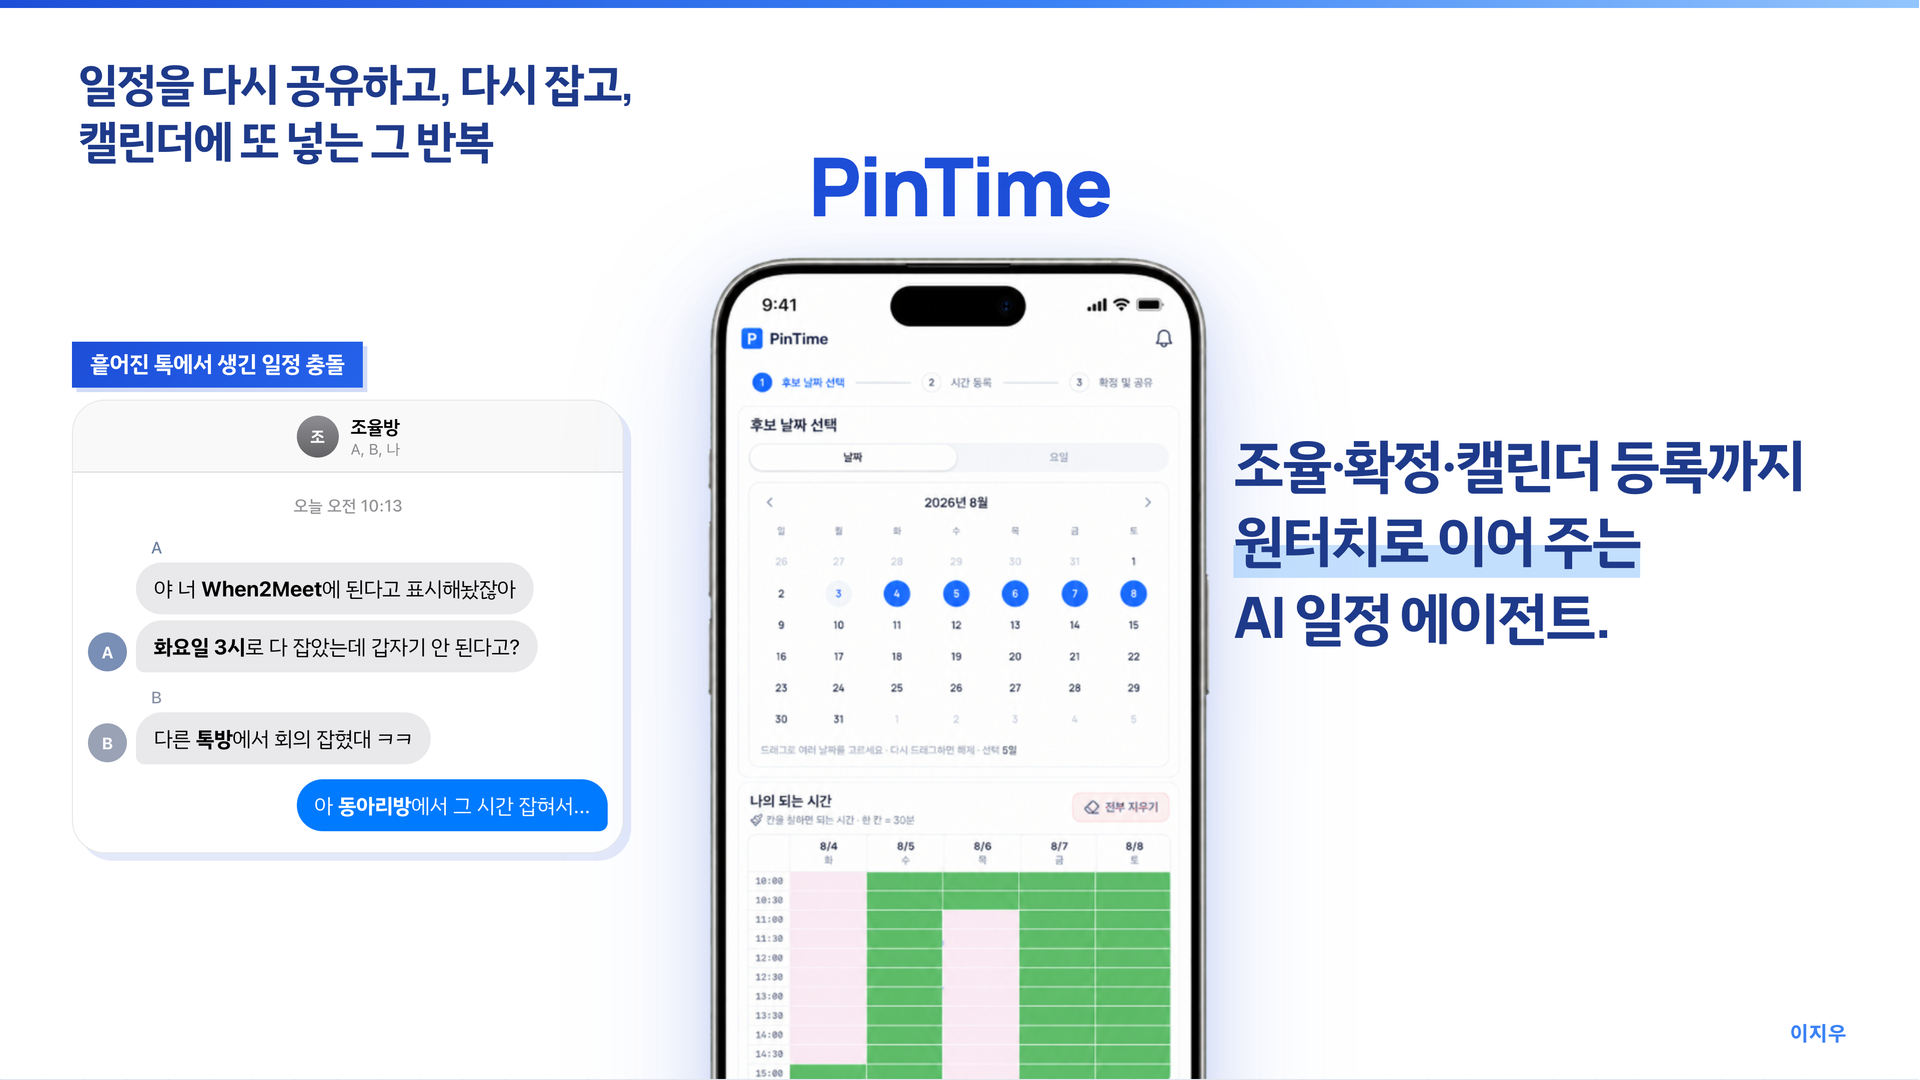
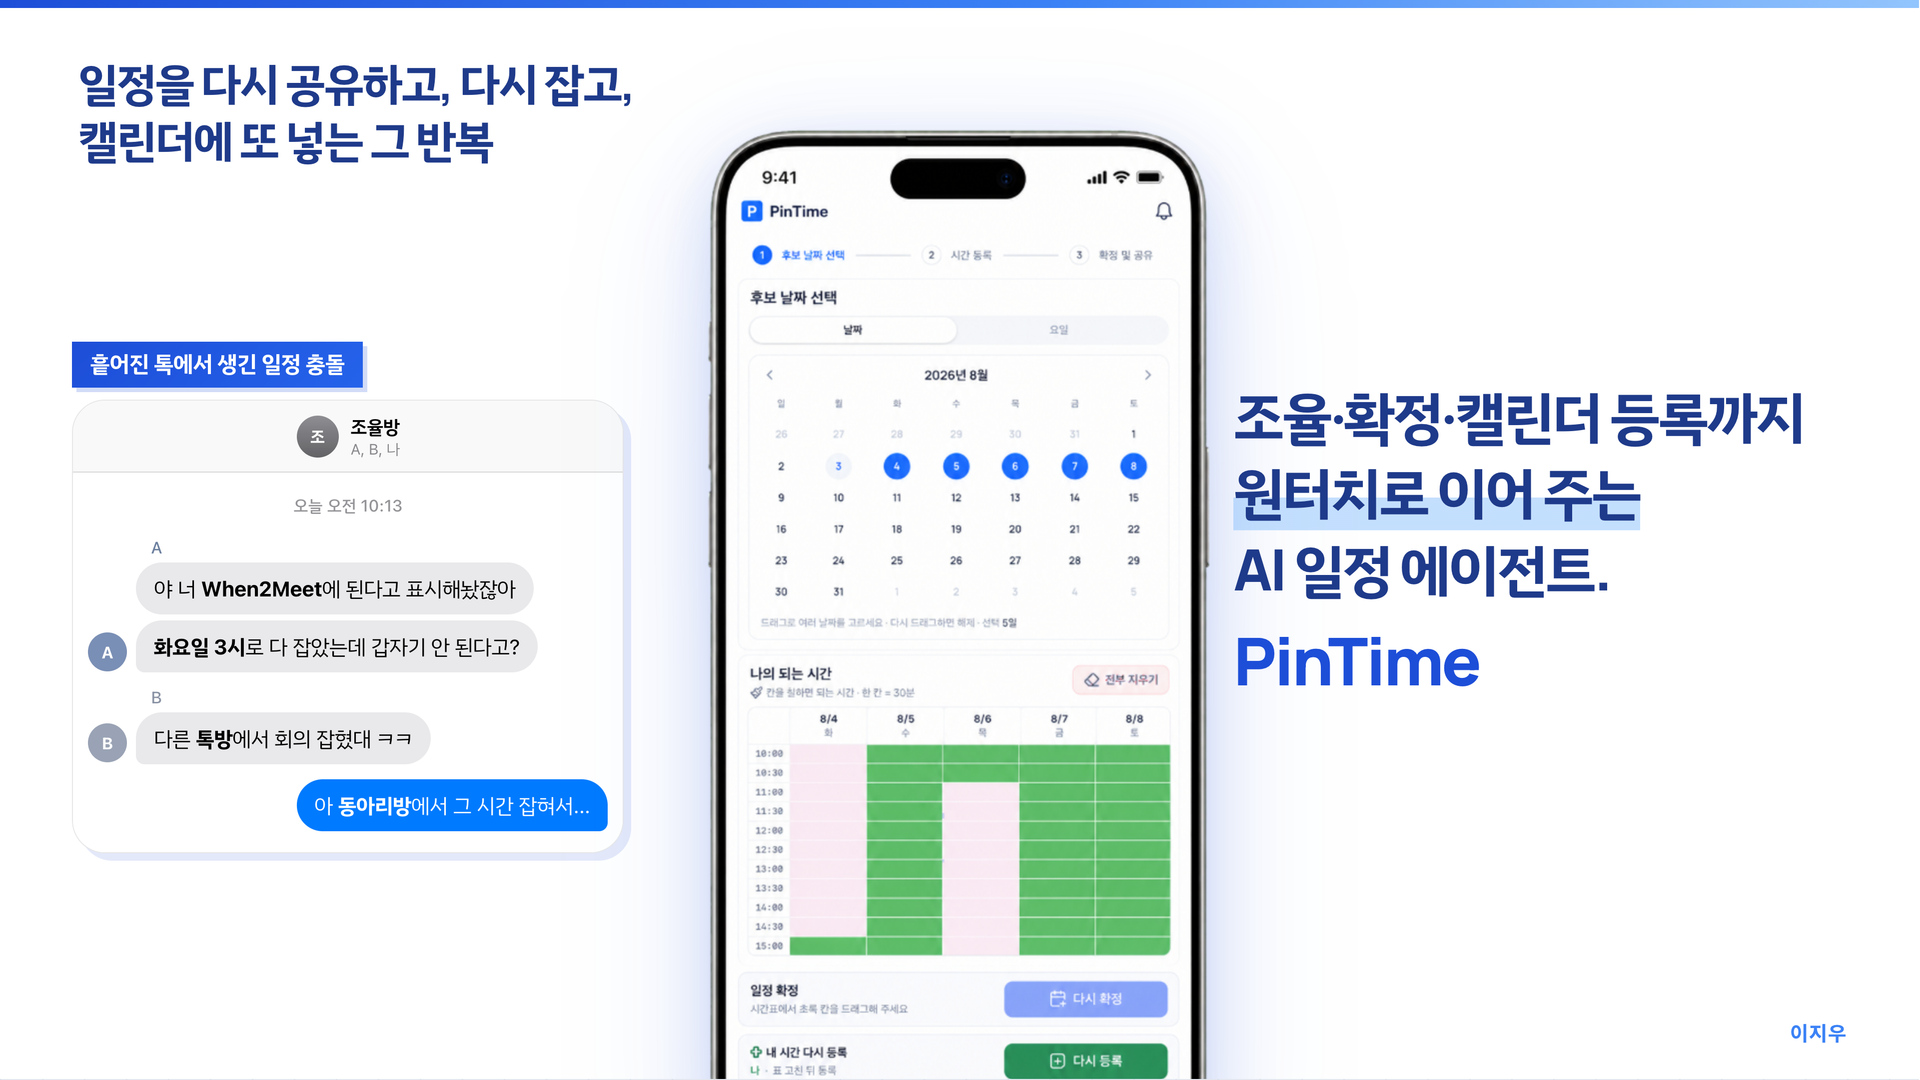
Place PinTime under the cover value tagline.

diff --git a/public/pitch.html b/public/pitch.html
@@ -1450,20 +1450,7 @@
         justify-self: center;
         overflow: visible;
         width: 100%;
-        transform: translateY(95px);
-      }
-
-      .cover-wordmark {
-        font-family: Manrope, sans-serif;
-        font-weight: 800;
-        font-size: 54px;
-        letter-spacing: -0.03em;
-        color: #1d4ed8;
-        line-height: 1;
-        margin-bottom: 6px;
-        flex-shrink: 0;
-        text-align: center;
-        transform: translateY(10px);
+        transform: translateY(40px);
       }
 
       .cover-phone {
@@ -1510,6 +1497,17 @@
       .cover-tagline .ai {
         color: #1e3a8a;
         background: linear-gradient(180deg, transparent 58%, rgba(147, 197, 253, 0.55) 58%);
+      }
+
+      .cover-tagline .brand {
+        display: inline-block;
+        margin-top: 14px;
+        font-family: Manrope, sans-serif;
+        font-size: 44px;
+        font-weight: 800;
+        letter-spacing: -0.03em;
+        color: #1d4ed8;
+        line-height: 1;
       }
 
       .cover-foot {
@@ -2515,7 +2513,6 @@
             </div>
 
             <div class="cover-phone-col">
-              <div class="cover-wordmark">PinTime</div>
               <div class="cover-phone">
                 <img
                   src="/pitch-shots/cover-phone.png"
@@ -2528,7 +2525,8 @@
           <p class="cover-tagline">
             <span class="line">조율·확정·캘린더 등록까지</span><br />
             <span class="line ai">원터치로 이어 주는</span><br />
-            <span class="line">AI 일정 에이전트.</span>
+            <span class="line">AI 일정 에이전트.</span><br />
+            <span class="line brand">PinTime</span>
           </p>
 
           <div class="cover-foot">
